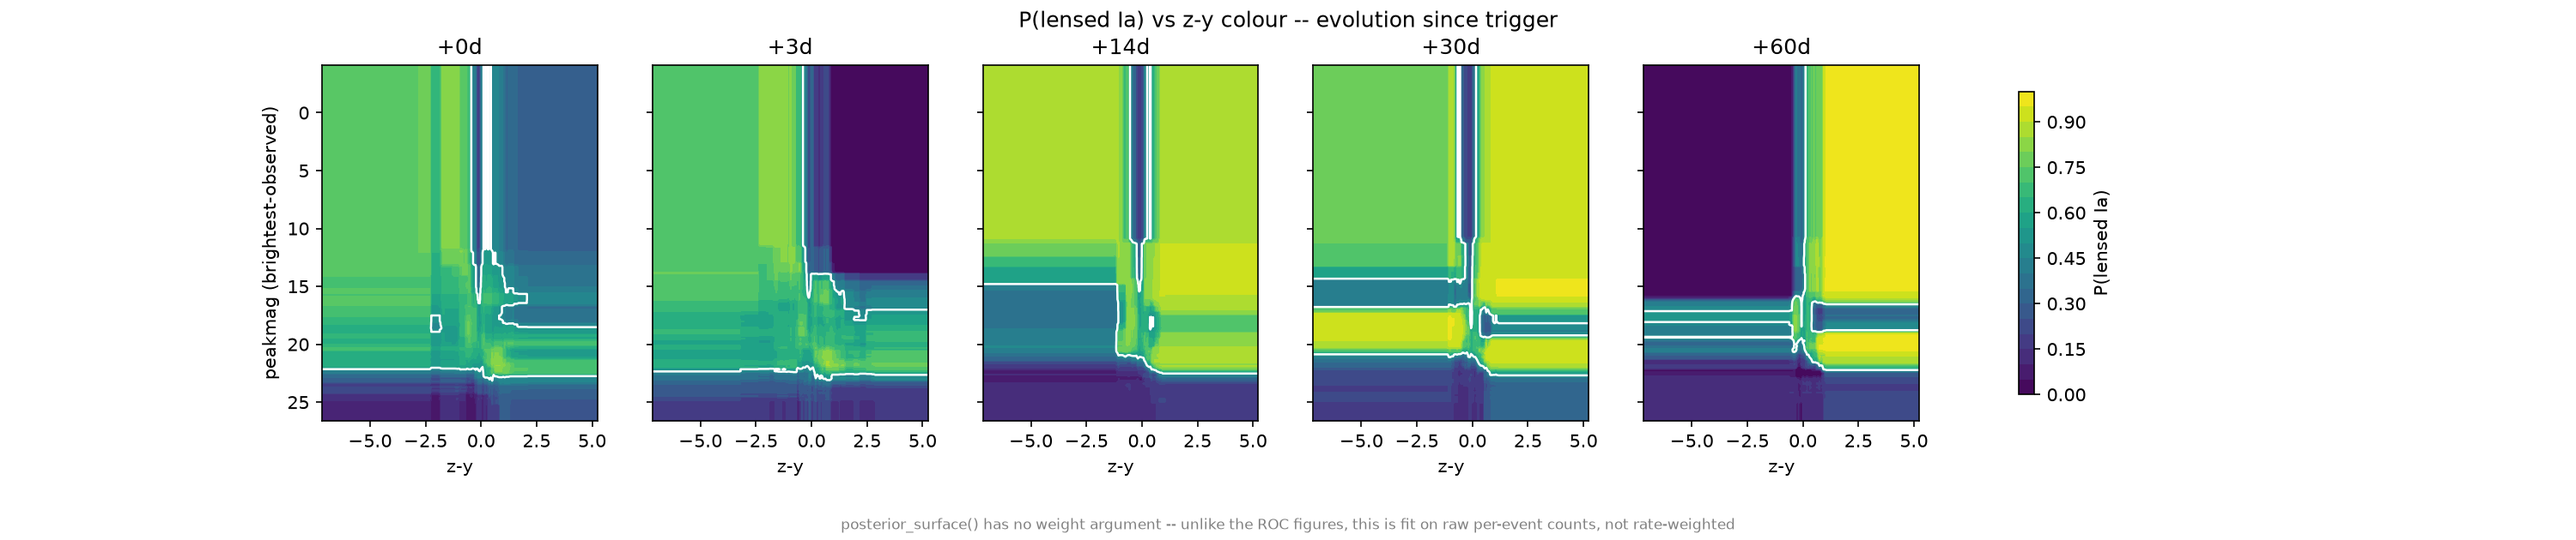
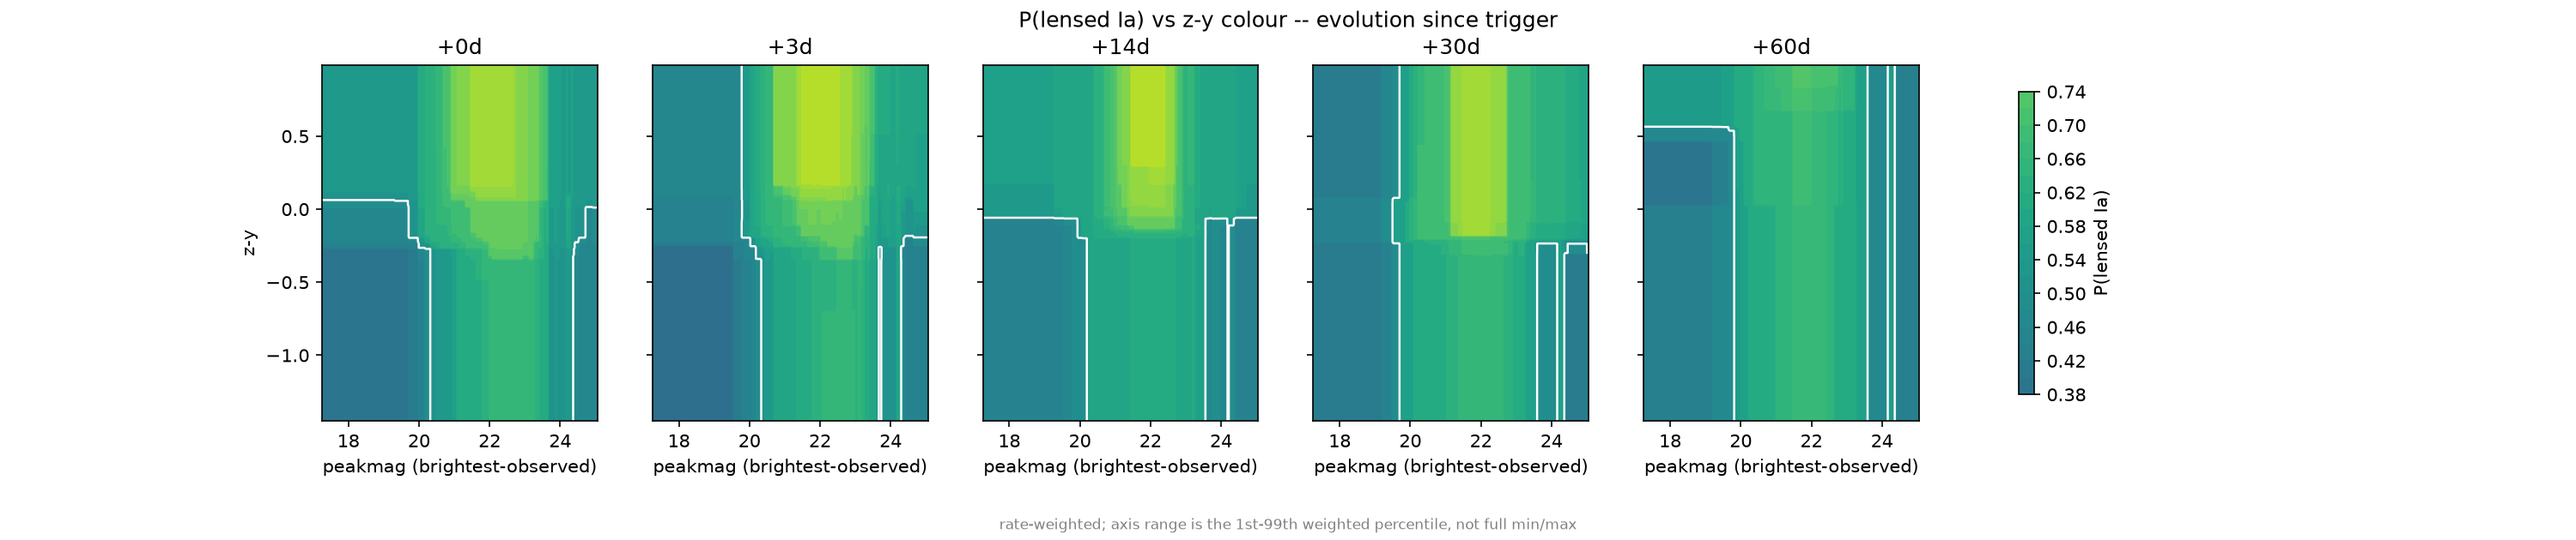
feat: weight-aware posterior_surface, outlier-robust ranges, lensing-convention axes
Closes #24.

cmsne/contours.py: posterior_surface()/evolving_contours() now accept
signal_weights/background_weights (matching ColourClassifier.fit()'s
existing pattern), used both to fit the classifier and, when the caller
leaves colour_range/magnitude_range as None, to pick a rate-weighted
robust_range() (1st-99th percentile) instead of plain min/max.

Why: the real population has lensed Ia draws at z~0.001-0.01 with
magnification up to ~48x -- strong-lensing optical depth is ~0 that close,
so rate_weight() already assigns these a near-zero weight, but
posterior_surface had no way to apply it. These near-impossible events were
getting full voting power in the fit and dragging the plotted axis range out
so far (peakmag as bright as -4.1 vs a 1st-percentile of +13.5) that most of
each boundary_*.png panel was empty extrapolation, which is also where the
tree-based classifier's piecewise-constant decision surface looks most
erratic.

scripts/plot_evolving_boundaries.py: now passes real rate_weight() weights
through to every fit and to shared_ranges() (rewritten on top of
robust_range()); swaps the plotted axes to the lensing-literature convention
(magnitude on x, colour on y, not the stellar-CMD colour-on-x/magnitude-on-y
convention); and adds a companion boundary_<pair>_sources.png per band pair,
scattering every class's discrete events (colour-coded) over the same
colour_range/magnitude_range as the boundary figure, so the data density
[…]

diff --git a/scripts/plot_evolving_boundaries.py b/scripts/plot_evolving_boundaries.py
@@ -5,13 +5,23 @@ the trajectory's Δt-since-trigger grid (issue #18).
 added in PR #14) -- it has just never been run on real data or plotted. This
 script does both: loads a real dual-schema production population, fits one
 2-feature classifier per (band pair, grid step) via `posterior_surface`, and
-renders a 5-panel figure per band pair.
+renders a 5-panel figure per band pair, plus a companion scatter of the
+discrete per-class events behind each boundary figure.
 
 `posterior_surface` is called directly rather than through `evolving_contours`
 so a single colour/magnitude axis range can be shared across all 5 panels in
 a figure -- otherwise each panel auto-scales to its own step's finite-value
 range (which drifts slightly step to step), making the boundary's motion
-hard to read side by side.
+hard to read side by side. The shared range is rate-weighted and percentile-
+based (`cmsne.contours.robust_range`, issue #24) rather than plain min/max,
+since a handful of near-zero-probability outliers (implausibly low-redshift,
+near-maximally-magnified lensed Ia draws) otherwise stretch the range so far
+that most of each panel shows empty extrapolation instead of real data
+density -- which is also where the classifier's axis-aligned, piecewise-
+constant decision surface looks most erratic.
+
+Axes follow the lensing-literature convention: magnitude on x, colour on y
+(not the stellar-CMD convention of colour on x, magnitude on y).
 
     python scripts/plot_evolving_boundaries.py --data-dir results/dual_58563115 --out-dir docs/figures
 """
@@ -27,7 +37,7 @@ sys.path.insert(0, _ROOT)
 
 from cmsne.multicolour import ADJ_COLOURS
 from cmsne.trajectory import TRAJECTORY_GRID, _step_suffix
-from cmsne.contours import posterior_surface
+from cmsne.contours import posterior_surface, robust_range
 
 CLASSES = ['lensed_Ia', 'unlensed_Ia', 'lensed_sn1bc', 'lensed_sn2l', 'lensed_sn2n',
            'lensed_sn2p', 'unlensed_sn1bc', 'unlensed_sn2l', 'unlensed_sn2n', 'unlensed_sn2p']
@@ -47,52 +57,96 @@ def load_population(data_dir):
     return signal, background
 
 
-def shared_ranges(signal, background, pair_key, grid=TRAJECTORY_GRID):
-    """Pooled colour/magnitude min-max across every grid step, for one shared
-    axis range across all of a figure's panels."""
-    colours, mags = [], []
+def shared_ranges(signal, background, signal_weights, background_weights,
+                  pair_key, grid=TRAJECTORY_GRID):
+    """Pooled, rate-weighted, outlier-robust colour/magnitude range across
+    every grid step, for one shared axis range across all of a figure's
+    panels (see :func:`cmsne.contours.robust_range`)."""
+    colours, mags, weights = [], [], []
     pooled = signal + background
+    pooled_weights = np.r_[signal_weights, background_weights]
     for day in grid:
         suffix = _step_suffix(day)
         colour_key, magnitude_key = f'{pair_key}{suffix}', f'peakmag{suffix}'
         colours.extend(e.get(colour_key, np.nan) for e in pooled)
         mags.extend(e.get(magnitude_key, np.nan) for e in pooled)
+        weights.extend(pooled_weights)
     colours, mags = np.asarray(colours, float), np.asarray(mags, float)
+    weights = np.asarray(weights, float)
     if not np.any(np.isfinite(colours)) or not np.any(np.isfinite(mags)):
         raise ValueError(
             f"'{pair_key}' has no finite colour/magnitude values at any grid step "
             "-- nothing observed this band pair in the given population")
-    return ((float(np.nanmin(colours)), float(np.nanmax(colours))),
-            (float(np.nanmin(mags)), float(np.nanmax(mags))))
+    return robust_range(colours, weights), robust_range(mags, weights)
 
 
-def plot_boundary_evolution(signal, background, pair_key, out_path, grid=TRAJECTORY_GRID, n=200):
-    colour_range, magnitude_range = shared_ranges(signal, background, pair_key, grid)
+def plot_boundary_evolution(signal, background, signal_weights, background_weights,
+                            pair_key, out_path, grid=TRAJECTORY_GRID, n=200):
+    colour_range, magnitude_range = shared_ranges(
+        signal, background, signal_weights, background_weights, pair_key, grid)
 
-    fig, axes = plt.subplots(1, len(grid), figsize=(4 * len(grid), 4.2), sharey=True)
+    fig, axes = plt.subplots(1, len(grid), figsize=(4 * len(grid), 4.2), sharex=True, sharey=True)
     mesh = None
     for ax, day in zip(axes, grid):
         suffix = _step_suffix(day)
         colour_key, magnitude_key = f'{pair_key}{suffix}', f'peakmag{suffix}'
         cg, mg, pg, _ = posterior_surface(
             signal, background, colour_key, magnitude_key,
-            colour_range=colour_range, magnitude_range=magnitude_range, n=n)
-        mesh = ax.contourf(cg, mg, pg, levels=20, cmap='viridis', vmin=0, vmax=1)
-        ax.contour(cg, mg, pg, levels=[0.5], colors='white', linewidths=1.2)
+            colour_range=colour_range, magnitude_range=magnitude_range, n=n,
+            signal_weights=signal_weights, background_weights=background_weights)
+        # cg/mg/pg are laid out (magnitude varying along rows, colour along
+        # columns) by posterior_surface's np.meshgrid(colour, magnitude) --
+        # transpose all three together to put magnitude on x, colour on y
+        # (the lensing-literature convention) without touching their values.
+        mesh = ax.contourf(mg.T, cg.T, pg.T, levels=20, cmap='viridis', vmin=0, vmax=1)
+        ax.contour(mg.T, cg.T, pg.T, levels=[0.5], colors='white', linewidths=1.2)
         ax.set_title(f'+{day:.0f}d')
-        ax.set_xlabel(f'{pair_key[0]}-{pair_key[1]}')
-    # Axes share y (sharey=True), so inverting once on any one of them inverts
-    # all of them -- calling invert_yaxis() per-axis in the loop above would
-    # toggle the shared ylim back and forth once per axis instead.
-    axes[0].invert_yaxis()
-    axes[0].set_ylabel('peakmag (brightest-observed)')
+        ax.set_xlabel('peakmag (brightest-observed)')
+    axes[0].set_ylabel(f'{pair_key[0]}-{pair_key[1]}')
     fig.suptitle(f'P(lensed Ia) vs {pair_key[0]}-{pair_key[1]} colour -- evolution since trigger')
     fig.subplots_adjust(bottom=0.22)
-    fig.text(0.5, 0.02, 'posterior_surface() has no weight argument -- unlike the ROC figures, '
-                        'this is fit on raw per-event counts, not rate-weighted',
+    fig.text(0.5, 0.02, 'rate-weighted; axis range is the 1st-99th weighted percentile, not full min/max',
             ha='center', fontsize=8, color='gray')
     fig.colorbar(mesh, ax=axes, shrink=0.85, label='P(lensed Ia)')
     fig.savefig(out_path, dpi=150)
+    plt.close(fig)
+    return colour_range, magnitude_range
+
+
+def plot_discrete_sources_by_class(pop, pair_key, out_path, colour_range, magnitude_range,
+                                   grid=TRAJECTORY_GRID):
+    """Scatter every class's discrete events (colour-coded) behind one
+    boundary figure's colour-magnitude axes.
+
+    Zoomed to the same ``colour_range``/``magnitude_range`` the boundary
+    figure used (from :func:`shared_ranges`), so the two are directly
+    comparable panel for panel -- not each auto-scaled to its own full data
+    extent, outliers included.
+    """
+    fig, axes = plt.subplots(1, len(grid), figsize=(4 * len(grid), 4.5), sharex=True, sharey=True)
+    colors = plt.cm.tab10(np.linspace(0, 1, len(CLASSES)))
+
+    for ax, day in zip(axes, grid):
+        suffix = _step_suffix(day)
+        colour_key, magnitude_key = f'{pair_key}{suffix}', f'peakmag{suffix}'
+        for i, c in enumerate(CLASSES):
+            events = pop[c]
+            colours = np.array([e.get(colour_key, np.nan) for e in events])
+            mags = np.array([e.get(magnitude_key, np.nan) for e in events])
+            finite = np.isfinite(colours) & np.isfinite(mags)
+            is_signal = c == 'lensed_Ia'
+            ax.scatter(mags[finite], colours[finite], s=18 if is_signal else 3,
+                      marker='*' if is_signal else '.', color=colors[i],
+                      alpha=0.5 if is_signal else 0.15, label=c, rasterized=True)
+        ax.set_title(f'+{day:.0f}d')
+        ax.set_xlabel('peakmag')
+        ax.set_xlim(*magnitude_range)
+        ax.set_ylim(*colour_range)
+    axes[0].set_ylabel(f'{pair_key[0]}-{pair_key[1]}')
+    axes[-1].legend(fontsize=7, markerscale=3, loc='upper left', bbox_to_anchor=(1.02, 1))
+    fig.suptitle(f'Discrete per-class events behind the {pair_key} boundary figure')
+    fig.subplots_adjust(right=0.85)
+    fig.savefig(out_path, dpi=130)
     plt.close(fig)
 
 
@@ -104,18 +158,31 @@ def main():
     args = ap.parse_args()
 
     os.makedirs(args.out_dir, exist_ok=True)
-    signal, background = load_population(args.data_dir)
+
+    pop = {}
+    for c in CLASSES:
+        with open(os.path.join(args.data_dir, f'{c}.pkl'), 'rb') as f:
+            pop[c] = pickle.load(f)['events']
+    signal = pop['lensed_Ia']
+    background = [e for c in CLASSES if c != 'lensed_Ia' for e in pop[c]]
+    signal_weights = np.array([e['weight'] for e in signal])
+    background_weights = np.array([e['weight'] for e in background])
     print(f'signal (lensed_Ia): {len(signal)}, background: {len(background)}')
 
     for pair_key in PAIR_KEYS:
-        out_path = os.path.join(args.out_dir, f'boundary_{pair_key}.png')
+        boundary_path = os.path.join(args.out_dir, f'boundary_{pair_key}.png')
+        sources_path = os.path.join(args.out_dir, f'boundary_{pair_key}_sources.png')
         print(f'fitting {pair_key} ({len(TRAJECTORY_GRID)} grid steps)...')
         try:
-            plot_boundary_evolution(signal, background, pair_key, out_path, n=args.n)
+            colour_range, magnitude_range = plot_boundary_evolution(
+                signal, background, signal_weights, background_weights,
+                pair_key, boundary_path, n=args.n)
         except ValueError as exc:
             print(f'skipping {pair_key}: {exc}')
             continue
-        print(f'wrote {out_path}')
+        print(f'wrote {boundary_path}')
+        plot_discrete_sources_by_class(pop, pair_key, sources_path, colour_range, magnitude_range)
+        print(f'wrote {sources_path}')
 
 
 if __name__ == '__main__':

diff --git a/cmsne/contours.py b/cmsne/contours.py
@@ -13,33 +13,77 @@ feature vector directly (see the design spec, architecture section B vs C).
 import numpy as np
 
 from .classifier import ColourClassifier
+from .colour_magnitude import weighted_quantile
 from .trajectory import TRAJECTORY_GRID, _step_suffix
 
 
+def robust_range(values, weights=None, quantiles=(0.01, 0.99)):
+    """``(low, high)`` bounds for an axis, robust to rare extreme outliers.
+
+    Rare, near-zero-probability draws (e.g. a lensed SN Ia at implausibly low
+    redshift with near-maximal magnification -- physically near-impossible,
+    which is exactly why :func:`cmsne.multicolour.rate_weight` assigns them a
+    tiny weight) can sit many units away from where the real data density is,
+    stretching a plain min/max range so far that most of a plotted mesh ends
+    up showing near-empty extrapolation rather than real data (see issue #24).
+    Quantiles are far less sensitive to a handful of such points; weighting
+    them (when ``weights`` is given) suppresses their influence further,
+    consistent with how little they should count everywhere else.
+
+    :param values: per-event values (NaN entries are ignored).
+    :param weights: per-event weights, or ``None`` for an unweighted quantile.
+    :param quantiles: ``(low, high)`` quantiles in [0, 1].
+    :return: ``(low, high)`` tuple of floats.
+    """
+    values = np.asarray(values, dtype=float)
+    lo_q, hi_q = quantiles
+    if weights is None:
+        finite = values[np.isfinite(values)]
+        return (float(np.percentile(finite, 100 * lo_q)),
+                float(np.percentile(finite, 100 * hi_q)))
+    return (weighted_quantile(values, weights, lo_q),
+            weighted_quantile(values, weights, hi_q))
+
+
 def posterior_surface(signal_events, background_events, colour_key, magnitude_key,
-                      colour_range=None, magnitude_range=None, n=200):
+                      colour_range=None, magnitude_range=None, n=200,
+                      signal_weights=None, background_weights=None):
     """Fit a 2-feature classifier and evaluate P(lensed) over a mesh.
 
     :param signal_events, background_events: event dicts exposing
         ``colour_key`` and ``magnitude_key`` (e.g. from
         :func:`cmsne.trajectory.event_trajectory`).
-    :param colour_range, magnitude_range: ``(low, high)``; default to the
-        pooled data's min/max.
+    :param colour_range, magnitude_range: ``(low, high)``; default to
+        :func:`robust_range` (1st-99th percentile, rate-weighted if
+        ``signal_weights``/``background_weights`` are given) over the pooled
+        data, not the full min/max -- see :func:`robust_range`.
+    :param signal_weights, background_weights: rate weights per event (see
+        :func:`cmsne.multicolour.rate_weight`), used both to fit the
+        classifier (matching :meth:`cmsne.classifier.ColourClassifier.fit`)
+        and, when the range args are left as ``None``, to compute a
+        rate-weighted default range.
     :return: ``(colour_grid, magnitude_grid, probability_grid, classifier)``,
         each grid an ``(n, n)`` array from ``np.meshgrid``.
     """
     clf = ColourClassifier(keys=[colour_key], include_peakmag=False, target_fpr=0.10)
     clf.magnitude_feature = magnitude_key
     clf.extra = (magnitude_key,)
-    clf.fit(signal_events, background_events)
+    clf.fit(signal_events, background_events, signal_weights, background_weights)
 
     pooled = signal_events + background_events
     colours = np.array([e.get(colour_key, np.nan) for e in pooled], dtype=float)
     mags = np.array([e.get(magnitude_key, np.nan) for e in pooled], dtype=float)
-    if colour_range is None:
-        colour_range = (float(np.nanmin(colours)), float(np.nanmax(colours)))
-    if magnitude_range is None:
-        magnitude_range = (float(np.nanmin(mags)), float(np.nanmax(mags)))
+    if colour_range is None or magnitude_range is None:
+        if signal_weights is None and background_weights is None:
+            pooled_weights = None
+        else:
+            sw = np.ones(len(signal_events)) if signal_weights is None else np.asarray(signal_weights, float)
+            bw = np.ones(len(background_events)) if background_weights is None else np.asarray(background_weights, float)
+            pooled_weights = np.r_[sw, bw]
+        if colour_range is None:
+            colour_range = robust_range(colours, pooled_weights)
+        if magnitude_range is None:
+            magnitude_range = robust_range(mags, pooled_weights)
 
     colour_grid, magnitude_grid = np.meshgrid(
         np.linspace(*colour_range, n), np.linspace(*magnitude_range, n))
@@ -50,10 +94,13 @@ def posterior_surface(signal_events, background_events, colour_key, magnitude_ke
 
 
 def evolving_contours(signal_trajectories, background_trajectories, pair_key,
-                      grid=TRAJECTORY_GRID, n=200):
+                      grid=TRAJECTORY_GRID, n=200,
+                      signal_weights=None, background_weights=None):
     """:func:`posterior_surface` at every Δt-since-trigger grid step.
 
     :param pair_key: adjacent-colour key stem, e.g. ``'gr'`` for g-r.
+    :param signal_weights, background_weights: forwarded to every
+        :func:`posterior_surface` call (see its docstring).
     :return: dict ``{day: (colour_grid, magnitude_grid, probability_grid, classifier)}``
         keyed by each ``day`` in ``grid``.
     """
@@ -62,5 +109,6 @@ def evolving_contours(signal_trajectories, background_trajectories, pair_key,
         suffix = _step_suffix(day)
         surfaces[day] = posterior_surface(
             signal_trajectories, background_trajectories,
-            colour_key=f'{pair_key}{suffix}', magnitude_key=f'peakmag{suffix}', n=n)
+            colour_key=f'{pair_key}{suffix}', magnitude_key=f'peakmag{suffix}', n=n,
+            signal_weights=signal_weights, background_weights=background_weights)
     return surfaces

diff --git a/tests/test_cmsne.py b/tests/test_cmsne.py
@@ -841,6 +841,32 @@ check('higher colour region is more lensed-like (separable signal)',
 
 surfaces = ctr.evolving_contours(sig_c, bg_c, 'gr', grid=(0.0, 14.0), n=15)
 check('evolving_contours returns one surface per grid step', set(surfaces) == {0.0, 14.0})
+
+# robust_range: outlier-insensitive, and weight-aware
+_vals = np.concatenate([_rngc.normal(0, 1, 500), [500.0, -500.0]])  # 2 extreme outliers
+_lo_mm, _hi_mm = float(np.min(_vals)), float(np.max(_vals))
+_lo_rr, _hi_rr = ctr.robust_range(_vals)
+check('robust_range ignores rare extreme outliers unlike min/max',
+      _hi_rr < _hi_mm / 10 and _lo_rr > _lo_mm / 10, ((_lo_rr, _hi_rr), (_lo_mm, _hi_mm)))
+_w_suppress = np.ones(len(_vals)); _w_suppress[-2:] = 1e-6  # near-zero-weight the outliers
+_lo_rrw, _hi_rrw = ctr.robust_range(_vals, weights=_w_suppress, quantiles=(0.001, 0.999))
+check('robust_range is weight-aware: near-zero weight on outliers keeps range tight',
+      _hi_rrw < 10 and _lo_rrw > -10, (_lo_rrw, _hi_rrw))
+
+# posterior_surface/evolving_contours accept and use weights
+_sig_w = np.ones(len(sig_c)); _bg_w = np.ones(len(bg_c))
+_bg_w[:300] = 1e-6   # down-weight half the background so it barely influences the fit
+cg_w, mg_w, pg_w, clf_w = ctr.posterior_surface(
+    sig_c, bg_c, 'gr_d0', 'peakmag_d0', n=20, signal_weights=_sig_w, background_weights=_bg_w)
+check('posterior_surface accepts weights and still returns valid grids',
+      pg_w.shape == (20, 20) and np.all((pg_w >= 0) & (pg_w <= 1)))
+check('posterior_surface weights actually change the fit (differs from unweighted)',
+      not np.allclose(pg_w, pg), float(np.mean(np.abs(pg_w - pg))))
+
+surfaces_w = ctr.evolving_contours(sig_c, bg_c, 'gr', grid=(0.0, 14.0), n=15,
+                                   signal_weights=_sig_w, background_weights=_bg_w)
+check('evolving_contours forwards weights to every step',
+      not np.allclose(surfaces_w[0.0][2], surfaces[0.0][2]))
 check('each evolving-contour entry has the 4-tuple shape',
       all(len(v) == 4 and v[2].shape == (15, 15) for v in surfaces.values()))
 
